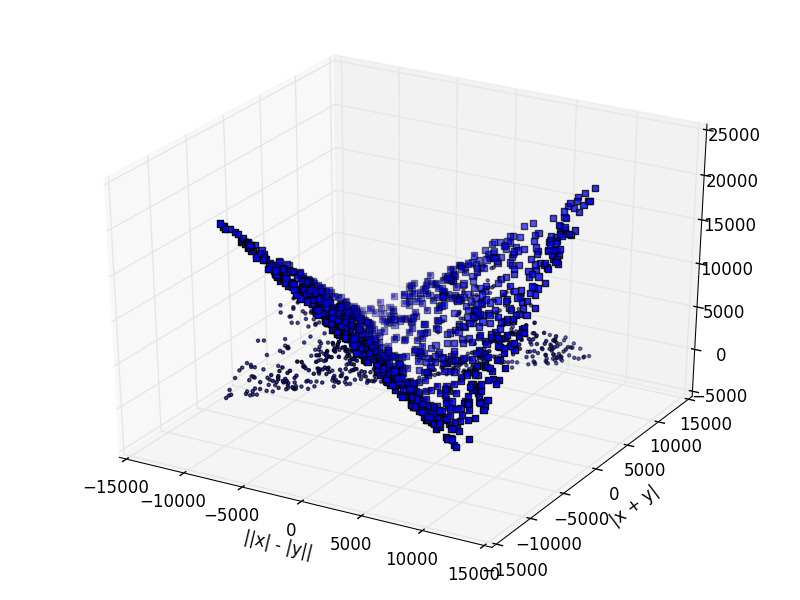
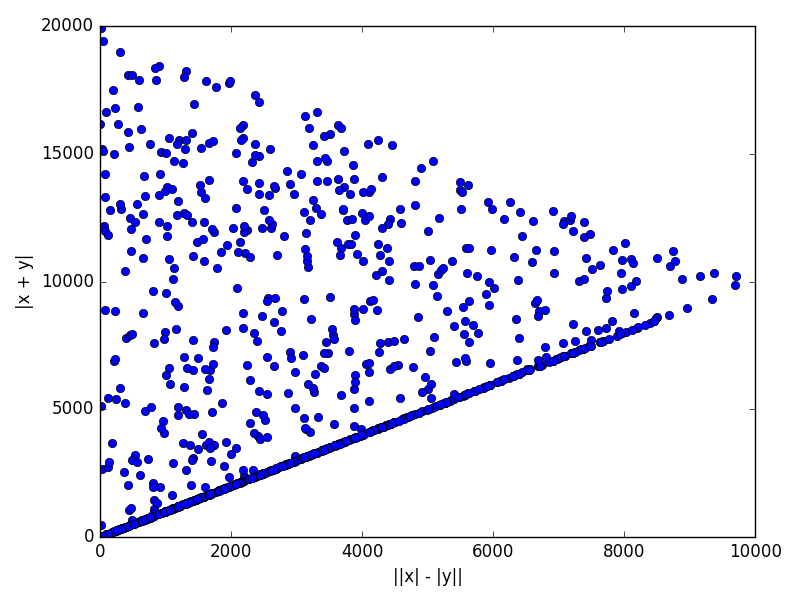
Fixed some code and prepared a pdf.

diff --git a/Calculus2016/Homework1/homework1.tex b/Calculus2016/Homework1/homework1.tex
@@ -117,15 +117,25 @@ counterpart to the triangle inequality and requires a very similar analysis.)
 
 \solution 
 
-The simulation shown in figure \ref{fig:2a} shows that it is true.
+The simulation shown in figure \ref{fig:2a} shows that it is true. The same
+picture  picture is plotted in 3d which is more complicated way of saying the
+same thing. Showing it is easy using a computational engine but how you gonna
+prove it?
 
 \begin{figure}[ht!]
 \begin{center}
-    \includegraphics[width=1\columnwidth]{./sol2_a.py}
+    \includegraphics[width=1\columnwidth]{./sol2_a.py.png}
+    \includegraphics[width=1\columnwidth]{./sol2_a.py_3d.png}
 \end{center}
-\caption{ $||x|-|y||$ is always less or equal to $|x+y|$}
+\caption{ $|x+y|$ is always greater than equal to $||x|-|y||$. A blue dot y-axis
+    value represents value of $|x+y|$ while its  x-axis value is value of
+    $||x|-|y||$ for a $(x,y)$. Dot falling
+falling over line with slope 1 means that function represented by y-axis is
+larger than the function on x-axis for that particular value of (x, y).}
+
 \label{fig:2a}
 \end{figure}
+
 
 \part
 Write the set $\{x: |x^2-2x-3|>x\}$ as a union of intervals (i.e. figure out

diff --git a/Calculus2016/Homework1/sol2_a.py b/Calculus2016/Homework1/sol2_a.py
@@ -9,17 +9,18 @@ from mpl_toolkits.mplot3d import Axes3D
 
 def main():
     fig = plt.figure()
-    ax = plt.axes( projection = '3d' )
+    # ax = plt.axes( projection = '3d' )
     xs = np.random.randint(-10000, 10000, 10**3)
     ys = np.random.randint(-10000, 10000, 10**3)
     v1 = np.abs( np.abs(xs) - np.abs( ys ) )
     v2 = np.abs( xs + ys )
-    ax.scatter( xs, ys, v1, marker ='.' )
+    # ax.scatter( xs, ys, v1, marker ='.' )
     # ax.plot_wireframe( xs, ys, v1, color ='red' )
     # ax.plot_trisurf( xs, ys, v1, color ='red', alpha = 0.4 )
-    ax.scatter( xs, ys, v2, marker = ',' )
+    # ax.scatter( xs, ys, v2, marker = ',' )
     # ax.plot_wireframe( xs, ys, v2, color = 'blue' )
     # ax.plot_trisurf( xs, ys, v2, color = 'blue', alpha = 0.4 )
+    plt.plot( v1, v2, 'o' )
     plt.xlabel( '||x| - |y||' )
     plt.ylabel( '|x + y|' )
     plt.tight_layout( )
